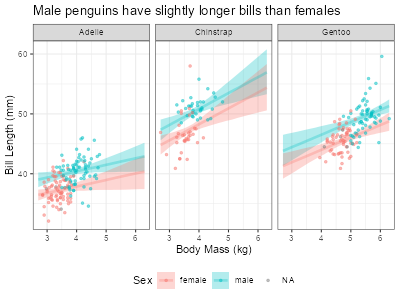
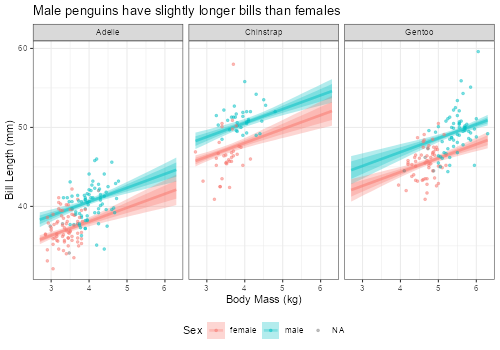
Edits for clarity; updated fig 2.

diff --git a/docs/tweaking-reg.html b/docs/tweaking-reg.html
@@ -481,10 +481,11 @@ sigma     0.46      0.02     0.43     0.50 1.00     3943     2698
 Draws were sampled using sample(hmc). For each parameter, Bulk_ESS
 and Tail_ESS are effective sample size measures, and Rhat is the potential
 scale reduction factor on split chains (at convergence, Rhat = 1).</code></pre>
-<p>The columns we met before capture different parts of the histograms we saw in <a href="#fig-post-peng1" class="quarto-xref">Figure&nbsp;<span>4.1</span></a>. <code>Estimate</code> is the mean of the histogram (shown as black dots), <code>Est.Error</code> is the standard error of these histograms, and l-95% CI and u-95% CI are the 5% and 95% quantiles of the histograms (shown as black bars). Other terms need elaboration, like chain, iter, warmup, Rhat, and Bulk_ESS and Tail_ESS. The formal definitions of these terms are complicated (<em>very</em> complicated), but an informal understanding is enough to fit almost all the models we need.</p>
+<p>The numerical summaries we met before have enriched their meaning: they capture different parts of the histograms in <a href="#fig-post-peng1" class="quarto-xref">Figure&nbsp;<span>4.1</span></a>. <code>Estimate</code> shows their mean (painted as black dots), <code>Est.Error</code> shows their standard errors, and l-95% CI and u-95% CI show their 5% and 95% quantiles of the histograms (painted as black bars).</p>
+<p>Other terms in the summary need elaboration, like chain, iter, warmup, Rhat, and Bulk_ESS and Tail_ESS. The formal definitions of these terms are <em>very</em> complicated, but an informal understanding is enough to fit almost all the models we need.</p>
 <p>The random draws we get form a sequence or <strong>chain</strong>. Also, to get each random draw, <code>brms</code> goes through a computational process that it calls an <strong>iteration</strong>. The first few draws are usually too inaccurate to be useful, so we have to let the chain discard some <strong>warmup</strong> iterations.</p>
 <p>Our penguin regression above used four chains, each of which had 2000 iterations—including warmup iterations, which we discard. Combining the post-warmup draws from all four chains gives us 4000 useful draws in total.</p>
-<p>For complicated mathematical reasons, draws from a given chain tend to be related to each other, so they are not as informative as if they were independent. The <strong>effective sample size (ESS)</strong> measures the equivalent number of random draws we would have if our iterations were independent. A higher ESS means more reliable estimates. <strong>Bulk ESS</strong> measures the reliability of the center (or bulk) of our posterior distribution, e.g., the number we see in the <code>Estimate</code> column. <strong>Tail ESS</strong> measures the reliability of the tails of the posterior distribution, e.g., the numbers in columns <code>l-95% CI</code> and <code>u-95% CI</code>. So, having both a high Bulk ESS and high Tail ESS suggest that our histograms as a whole are reliable.</p>
+<p>For complicated mathematical reasons, draws from a given chain tend to be related to each other, which makes them less informative than if they were independent. The <strong>effective sample size (ESS)</strong> measures the equivalent number of random draws we would have if our iterations were independent. A higher ESS means more reliable estimates. <strong>Bulk ESS</strong> measures the reliability of the center (or bulk) of our posterior distribution, e.g., the number we see in the <code>Estimate</code> column. <strong>Tail ESS</strong> measures the reliability of the tails of the posterior distribution, e.g., the numbers in columns <code>l-95% CI</code> and <code>u-95% CI</code>. So, having both a high Bulk ESS and high Tail ESS suggest that our histograms as a whole are reliable.</p>
 <p>We want the effective sample size to be high enough to get stable estimates of uncertainty. In practice, this means that the ESS for all parameters should be above 400 in most models, or at least 100 for special parameters in complicated models. Our penguin model above has way more ESS than this: the lowest Bulk ESS is 3794 (for the <code>Intercept</code>) and the lowest Tail ESS is 2698 (for the standard deviation <code>sigma</code>).</p>
 <p>Finally, our chain is supposed to get draws for all the relevant values of the parameter of interest. However, with complicated models or difficult data, a chain can get stuck in a few specific values, depriving us of an accurate description of the posterior distribution. To check that we are getting all the relevant values, we should check that multiple chains <em>converge</em> to the same random values. In practice, we should use at least four chains when fitting any model.</p>
 <p><strong>R-hat</strong> (often styled <span class="math inline">\(\hat{R}\)</span>) diagnoses convergence by comparing the variance of numbers within the chains to the variance across different chains. If the chains converged, these two variances should be roughly the same, so R-hat would equal 1. If the chains did not converge, the variances would differ and R-hat would be higher than 1.</p>
@@ -591,23 +592,23 @@ scale reduction factor on split chains (at convergence, Rhat = 1).</code></pre>
 <span id="cb12-5"><a href="#cb12-5" aria-hidden="true" tabindex="-1"></a>  <span class="at">mapping =</span> <span class="fu">aes</span>(<span class="at">x =</span> bm_kg_ctr <span class="sc">+</span> bm_kg_mean, <span class="at">y =</span> .epred, <span class="at">color =</span> sex, <span class="at">fill =</span> sex)</span>
 <span id="cb12-6"><a href="#cb12-6" aria-hidden="true" tabindex="-1"></a>) <span class="sc">+</span></span>
 <span id="cb12-7"><a href="#cb12-7" aria-hidden="true" tabindex="-1"></a>  <span class="fu">stat_lineribbon</span>(<span class="at">point_interval =</span> <span class="st">"mean_qi"</span>, <span class="at">.width =</span> <span class="fu">c</span>(<span class="fl">0.66</span>, <span class="fl">0.9</span>), <span class="at">alpha =</span> <span class="fl">0.3</span>) <span class="sc">+</span></span>
-<span id="cb12-8"><a href="#cb12-8" aria-hidden="true" tabindex="-1"></a>  <span class="co"># OPTIONAL: Add observed data to plots</span></span>
-<span id="cb12-9"><a href="#cb12-9" aria-hidden="true" tabindex="-1"></a>  <span class="fu">geom_point</span>(</span>
-<span id="cb12-10"><a href="#cb12-10" aria-hidden="true" tabindex="-1"></a>    <span class="at">data =</span> penguins,</span>
-<span id="cb12-11"><a href="#cb12-11" aria-hidden="true" tabindex="-1"></a>    <span class="fu">aes</span>(<span class="at">x =</span> bm_kg_ctr <span class="sc">+</span> bm_kg_mean, <span class="at">y =</span> bill_len),</span>
-<span id="cb12-12"><a href="#cb12-12" aria-hidden="true" tabindex="-1"></a>    <span class="at">alpha =</span> <span class="fl">0.5</span>,</span>
-<span id="cb12-13"><a href="#cb12-13" aria-hidden="true" tabindex="-1"></a>    <span class="at">size =</span> <span class="dv">1</span></span>
-<span id="cb12-14"><a href="#cb12-14" aria-hidden="true" tabindex="-1"></a>  ) <span class="sc">+</span></span>
-<span id="cb12-15"><a href="#cb12-15" aria-hidden="true" tabindex="-1"></a>  <span class="fu">facet_wrap</span>(<span class="sc">~</span>species) <span class="sc">+</span></span>
-<span id="cb12-16"><a href="#cb12-16" aria-hidden="true" tabindex="-1"></a>  <span class="fu">labs</span>(</span>
-<span id="cb12-17"><a href="#cb12-17" aria-hidden="true" tabindex="-1"></a>    <span class="at">title =</span> <span class="st">"Male penguins have slightly longer bills than females"</span>,</span>
-<span id="cb12-18"><a href="#cb12-18" aria-hidden="true" tabindex="-1"></a>    <span class="at">x =</span> <span class="st">"Body Mass (kg)"</span>,</span>
-<span id="cb12-19"><a href="#cb12-19" aria-hidden="true" tabindex="-1"></a>    <span class="at">y =</span> <span class="st">"Bill Length (mm)"</span>,</span>
-<span id="cb12-20"><a href="#cb12-20" aria-hidden="true" tabindex="-1"></a>    <span class="at">color =</span> <span class="st">"Sex"</span>,</span>
-<span id="cb12-21"><a href="#cb12-21" aria-hidden="true" tabindex="-1"></a>    <span class="at">fill =</span> <span class="st">"Sex"</span></span>
-<span id="cb12-22"><a href="#cb12-22" aria-hidden="true" tabindex="-1"></a>  ) <span class="sc">+</span></span>
-<span id="cb12-23"><a href="#cb12-23" aria-hidden="true" tabindex="-1"></a>  <span class="fu">theme_bw</span>() <span class="sc">+</span></span>
-<span id="cb12-24"><a href="#cb12-24" aria-hidden="true" tabindex="-1"></a>  <span class="fu">theme</span>(<span class="at">legend.position =</span> <span class="st">"bottom"</span>)</span></code></pre></div><button title="Copy to Clipboard" class="code-copy-button"><i class="bi"></i></button></div>
+<span id="cb12-8"><a href="#cb12-8" aria-hidden="true" tabindex="-1"></a>  <span class="fu">facet_wrap</span>(<span class="sc">~</span>species) <span class="sc">+</span></span>
+<span id="cb12-9"><a href="#cb12-9" aria-hidden="true" tabindex="-1"></a>  <span class="fu">labs</span>(</span>
+<span id="cb12-10"><a href="#cb12-10" aria-hidden="true" tabindex="-1"></a>    <span class="at">title =</span> <span class="st">"Male penguins have slightly longer bills than females"</span>,</span>
+<span id="cb12-11"><a href="#cb12-11" aria-hidden="true" tabindex="-1"></a>    <span class="at">x =</span> <span class="st">"Body Mass (kg)"</span>,</span>
+<span id="cb12-12"><a href="#cb12-12" aria-hidden="true" tabindex="-1"></a>    <span class="at">y =</span> <span class="st">"Bill Length (mm)"</span>,</span>
+<span id="cb12-13"><a href="#cb12-13" aria-hidden="true" tabindex="-1"></a>    <span class="at">color =</span> <span class="st">"Sex"</span>,</span>
+<span id="cb12-14"><a href="#cb12-14" aria-hidden="true" tabindex="-1"></a>    <span class="at">fill =</span> <span class="st">"Sex"</span></span>
+<span id="cb12-15"><a href="#cb12-15" aria-hidden="true" tabindex="-1"></a>  ) <span class="sc">+</span></span>
+<span id="cb12-16"><a href="#cb12-16" aria-hidden="true" tabindex="-1"></a>  <span class="fu">theme_bw</span>() <span class="sc">+</span></span>
+<span id="cb12-17"><a href="#cb12-17" aria-hidden="true" tabindex="-1"></a>  <span class="fu">theme</span>(<span class="at">legend.position =</span> <span class="st">"bottom"</span>) <span class="sc">+</span></span>
+<span id="cb12-18"><a href="#cb12-18" aria-hidden="true" tabindex="-1"></a>  <span class="co"># OPTIONAL: Add observed data to plots</span></span>
+<span id="cb12-19"><a href="#cb12-19" aria-hidden="true" tabindex="-1"></a>  <span class="fu">geom_point</span>(</span>
+<span id="cb12-20"><a href="#cb12-20" aria-hidden="true" tabindex="-1"></a>    <span class="at">data =</span> penguins,</span>
+<span id="cb12-21"><a href="#cb12-21" aria-hidden="true" tabindex="-1"></a>    <span class="fu">aes</span>(<span class="at">x =</span> bm_kg_ctr <span class="sc">+</span> bm_kg_mean, <span class="at">y =</span> bill_len),</span>
+<span id="cb12-22"><a href="#cb12-22" aria-hidden="true" tabindex="-1"></a>    <span class="at">alpha =</span> <span class="fl">0.5</span>,</span>
+<span id="cb12-23"><a href="#cb12-23" aria-hidden="true" tabindex="-1"></a>    <span class="at">size =</span> <span class="dv">1</span></span>
+<span id="cb12-24"><a href="#cb12-24" aria-hidden="true" tabindex="-1"></a>  )</span></code></pre></div><button title="Copy to Clipboard" class="code-copy-button"><i class="bi"></i></button></div>
 </div>
 <div id="fig-bill-reg2" class="quarto-float quarto-figure quarto-figure-center anchored" data-fig-align="center" width="500">
 <figure class="quarto-float quarto-float-fig figure">